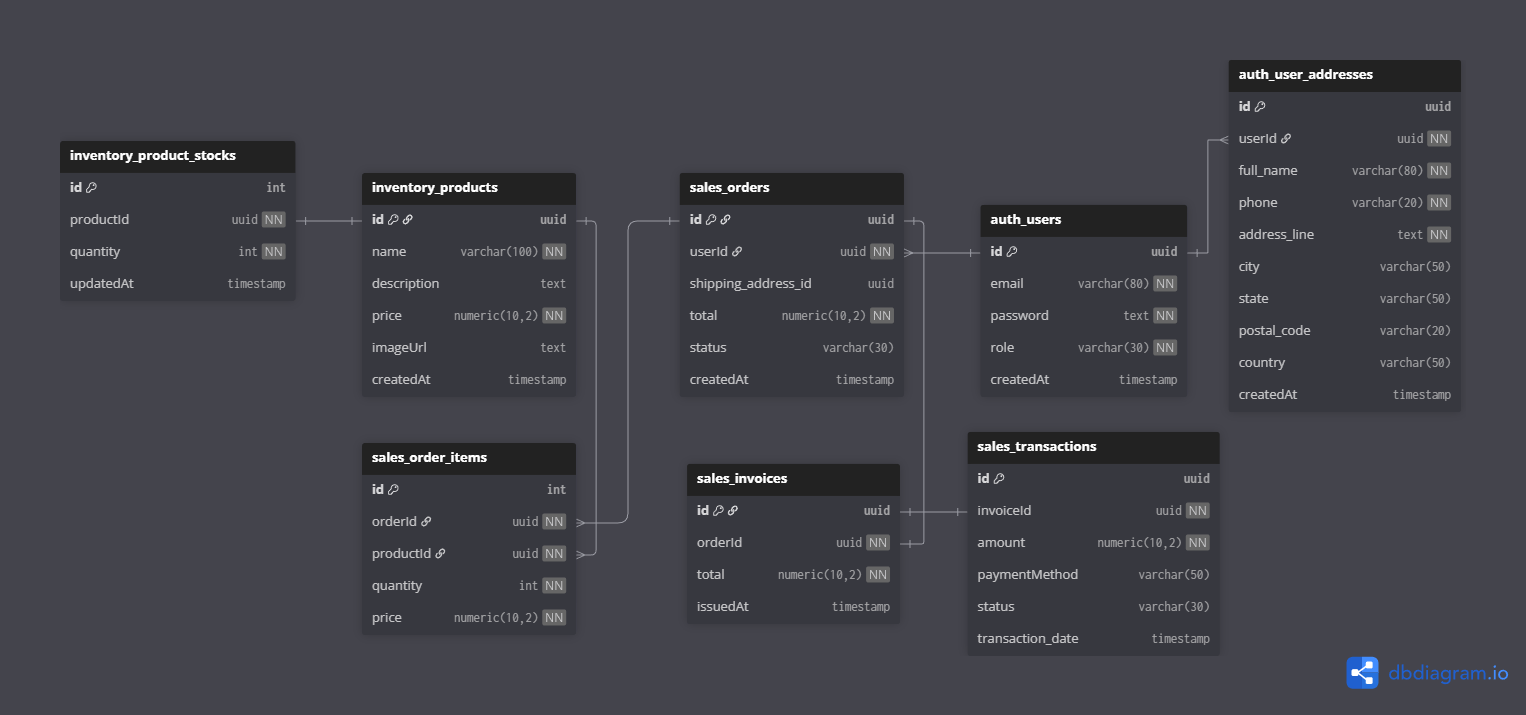
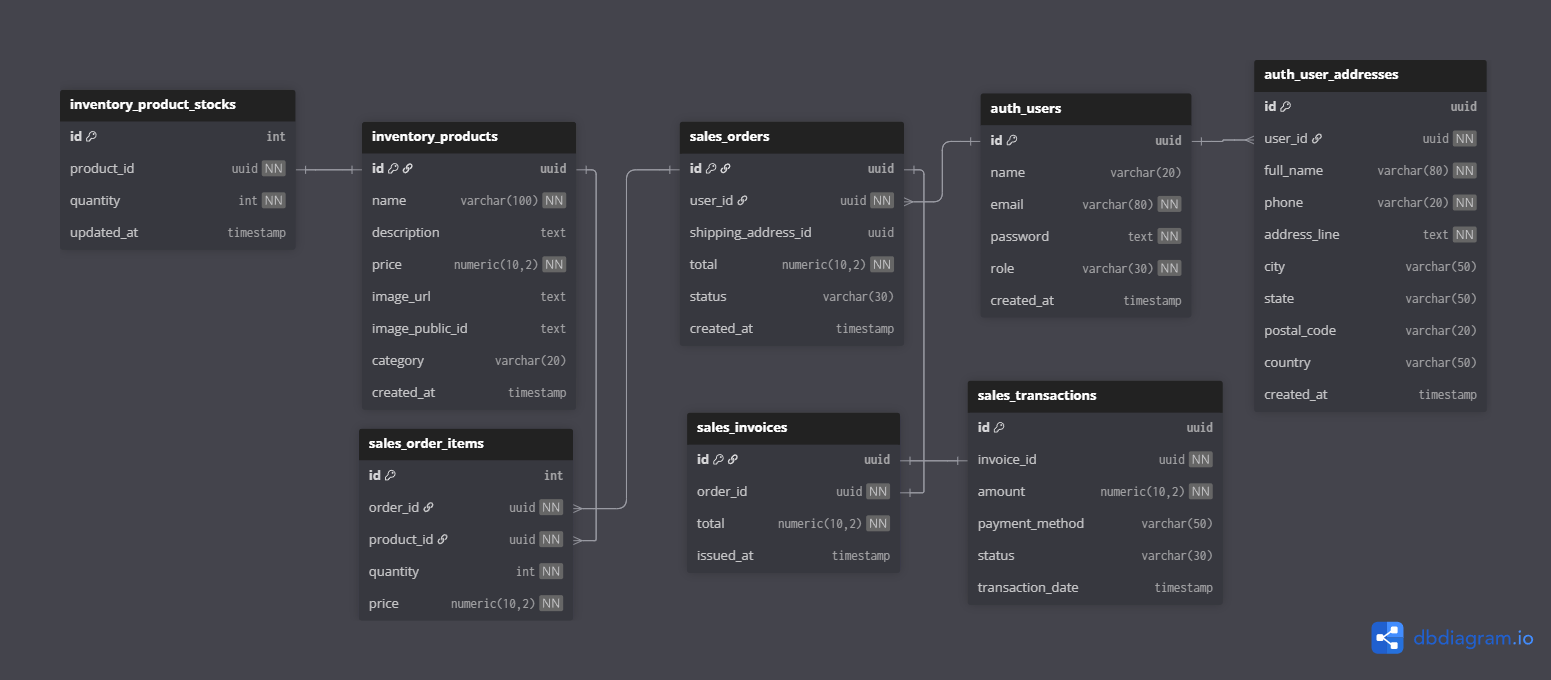
feat(core): integrate Cloudinary file upload and global exception handling
- Add CloudinaryService with upload and delete methods

- Implement global exception handler (GlobalExceptionHandler) for standardized API error responses

- Create custom exceptions (ResourceNotFoundException, ConflictException, FileUploadException)

- Add error DTOs for structured error messages (InvalidParam)

- Update application.yml with Cloudinary configuration

- Update database schema to support product images (V3__ script)

diff --git a/src/main/java/com/daniel/ecommerce/exception/GlobalExceptionHandler.java b/src/main/java/com/daniel/ecommerce/exception/GlobalExceptionHandler.java
@@ -1,0 +1,81 @@
+package com.daniel.ecommerce.exception;
+
+import com.daniel.ecommerce.dto.error.InvalidParam;
+import org.slf4j.MDC;
+import org.springframework.http.HttpStatus;
+import org.springframework.http.ProblemDetail;
+import org.springframework.http.ResponseEntity;
+import org.springframework.web.bind.MethodArgumentNotValidException;
+import org.springframework.web.bind.annotation.ExceptionHandler;
+import org.springframework.web.bind.annotation.RestControllerAdvice;
+
+import jakarta.servlet.http.HttpServletRequest;
+
+import java.net.URI;
+import java.time.Instant;
+import java.util.List;
+import java.util.stream.Collectors;
+
+@RestControllerAdvice
+public class GlobalExceptionHandler {
+
+    @ExceptionHandler(ResourceNotFoundException.class)
+    public ResponseEntity<ProblemDetail> handleNotFound(ResourceNotFoundException ex, HttpServletRequest request) {
+        ProblemDetail problem = ProblemDetail.forStatus(HttpStatus.NOT_FOUND);
+        problem.setTitle("Resource not found");
+        problem.setDetail(ex.getMessage());
+        problem.setInstance(URI.create(request.getRequestURI()));
+        return ResponseEntity.status(HttpStatus.NOT_FOUND).body(problem);
+    }
+
+    @ExceptionHandler(ConflictException.class)
+    public ResponseEntity<ProblemDetail> handleConflict(ConflictException ex, HttpServletRequest request) {
+        ProblemDetail problem = ProblemDetail.forStatus(HttpStatus.CONFLICT);
+        problem.setTitle("Conflict in the request");
+        problem.setDetail(ex.getMessage());
+        problem.setInstance(URI.create(request.getRequestURI()));
+        return ResponseEntity.status(HttpStatus.CONFLICT).body(problem);
+    }
+
+    @ExceptionHandler(FileUploadException.class)
+    public ResponseEntity<ProblemDetail> handleFileUpload(FileUploadException ex, HttpServletRequest request) {
+        ProblemDetail problem = ProblemDetail.forStatus(HttpStatus.INTERNAL_SERVER_ERROR);
+        problem.setTitle("File upload error");
+        problem.setDetail(ex.getMessage());
+        problem.setInstance(URI.create(request.getRequestURI()));
+        problem.setProperty("timestamp", Instant.now());
+        return ResponseEntity.status(HttpStatus.INTERNAL_SERVER_ERROR).body(problem);
+    }
+
+    @ExceptionHandler(MethodArgumentNotValidException.class)
+    public ResponseEntity<ProblemDetail> handleValidationException(MethodArgumentNotValidException ex, HttpServletRequest request) {
+        ProblemDetail problem = ProblemDetail.forStatus(HttpStatus.BAD_REQUEST);
+        problem.setTitle("Error de validación");
+        problem.setDetail("One or more fields are invalid");
+        problem.setInstance(URI.create(request.getRequestURI()));
+        problem.setProperty("timestamp", Instant.now());
+
+        // Detalles de validación
+        List<InvalidParam> invalidParams = ex.getBindingResult()
+                .getFieldErrors()
+                .stream()
+                .map(error -> new InvalidParam(error.getField(), error.getDefaultMessage()))
+                .collect(Collectors.toList());
+
+        problem.setProperty("invalid_params", invalidParams);
+        return ResponseEntity.status(HttpStatus.BAD_REQUEST).body(problem);
+    }
+
+
+    @ExceptionHandler(Exception.class)
+    public ResponseEntity<ProblemDetail> handleGeneric(Exception ex, HttpServletRequest request) {
+        ProblemDetail problem = ProblemDetail.forStatus(HttpStatus.INTERNAL_SERVER_ERROR);
+        problem.setTitle("Internal server error");
+        problem.setDetail("An unexpected error has occurred, please contact support if it persists.");
+        problem.setInstance(URI.create(request.getRequestURI()));
+        problem.setProperty("timestamp", Instant.now());
+        return ResponseEntity.status(HttpStatus.INTERNAL_SERVER_ERROR).body(problem);
+    }
+
+}
+

diff --git a/src/main/java/com/daniel/ecommerce/service/CloudinaryService.java b/src/main/java/com/daniel/ecommerce/service/CloudinaryService.java
@@ -1,0 +1,51 @@
+package com.daniel.ecommerce.service;
+
+import com.cloudinary.Cloudinary;
+import com.cloudinary.utils.ObjectUtils;
+import com.daniel.ecommerce.exception.FileUploadException;
+import org.springframework.stereotype.Service;
+import org.springframework.web.multipart.MultipartFile;
+
+import java.io.IOException;
+import java.util.HashMap;
+import java.util.Map;
+
+@Service
+public class CloudinaryService {
+
+    private final Cloudinary cloudinary;
+
+    public CloudinaryService(Cloudinary cloudinary) {
+        this.cloudinary = cloudinary;
+    }
+
+    private Map<String, String> doUpload(MultipartFile file) throws IOException {
+        Map uploadResult = cloudinary.uploader().upload(file.getBytes(),
+                ObjectUtils.asMap("folder", "products"));
+
+        Map<String, String> result = new HashMap<>();
+        result.put("url", uploadResult.get("secure_url").toString());
+        result.put("publicId", uploadResult.get("public_id").toString());
+        return result;
+    }
+
+    public Map<String, String> uploadFile(MultipartFile file) {
+        try {
+            return doUpload(file);
+        } catch (Exception e) {
+            throw new FileUploadException("Error uploading file");
+        }
+    }
+
+    public Map<String, String> replaceFile(String oldPublicId, MultipartFile file) {
+        try {
+            if (oldPublicId != null && !oldPublicId.isBlank()) {
+                cloudinary.uploader().destroy(oldPublicId, ObjectUtils.emptyMap());
+            }
+            return doUpload(file);
+        } catch (Exception e) {
+            throw new FileUploadException("Error uploading file");
+        }
+    }
+
+}

diff --git a/src/main/java/com/daniel/ecommerce/config/CloudinaryConfig.java b/src/main/java/com/daniel/ecommerce/config/CloudinaryConfig.java
@@ -1,0 +1,31 @@
+package com.daniel.ecommerce.config;
+
+import com.cloudinary.Cloudinary;
+import com.cloudinary.utils.ObjectUtils;
+import org.springframework.beans.factory.annotation.Value;
+import org.springframework.context.annotation.Bean;
+import org.springframework.context.annotation.Configuration;
+
+@Configuration
+public class CloudinaryConfig {
+
+    private final String cloudName;
+    private final String apiKey;
+    private final String apiSecret;
+
+    public CloudinaryConfig(@Value("${cloudinary.cloud.name}") String cloudName, @Value("${cloudinary.api.key}") String apiKey, @Value("${cloudinary.api.secret}") String apiSecret) {
+        this.cloudName = cloudName;
+        this.apiKey = apiKey;
+        this.apiSecret = apiSecret;
+    }
+
+    @Bean
+    public Cloudinary cloudinary() {
+        return new Cloudinary(ObjectUtils.asMap(
+                "cloud_name", cloudName,
+                "api_key", apiKey,
+                "api_secret", apiSecret,
+                "secure", true
+        ));
+    }
+}

diff --git a/src/main/java/com/daniel/ecommerce/exception/ResourceNotFoundException.java b/src/main/java/com/daniel/ecommerce/exception/ResourceNotFoundException.java
@@ -1,0 +1,8 @@
+package com.daniel.ecommerce.exception;
+
+public class ResourceNotFoundException extends RuntimeException{
+
+    public ResourceNotFoundException(String message) {
+        super(message);
+    }
+}

diff --git a/src/main/java/com/daniel/ecommerce/exception/FileUploadException.java b/src/main/java/com/daniel/ecommerce/exception/FileUploadException.java
@@ -1,0 +1,7 @@
+package com.daniel.ecommerce.exception;
+
+public class FileUploadException extends RuntimeException{
+    public FileUploadException(String message){
+        super(message);
+    }
+}

diff --git a/src/main/java/com/daniel/ecommerce/exception/ConflictException.java b/src/main/java/com/daniel/ecommerce/exception/ConflictException.java
@@ -1,0 +1,7 @@
+package com.daniel.ecommerce.exception;
+
+public class ConflictException extends RuntimeException{
+    public ConflictException(String message) {
+        super(message);
+    }
+}

diff --git a/src/main/java/com/daniel/ecommerce/dto/error/InvalidParam.java b/src/main/java/com/daniel/ecommerce/dto/error/InvalidParam.java
@@ -1,0 +1,3 @@
+package com.daniel.ecommerce.dto.error;
+
+public record InvalidParam(String name, String reason) {}
